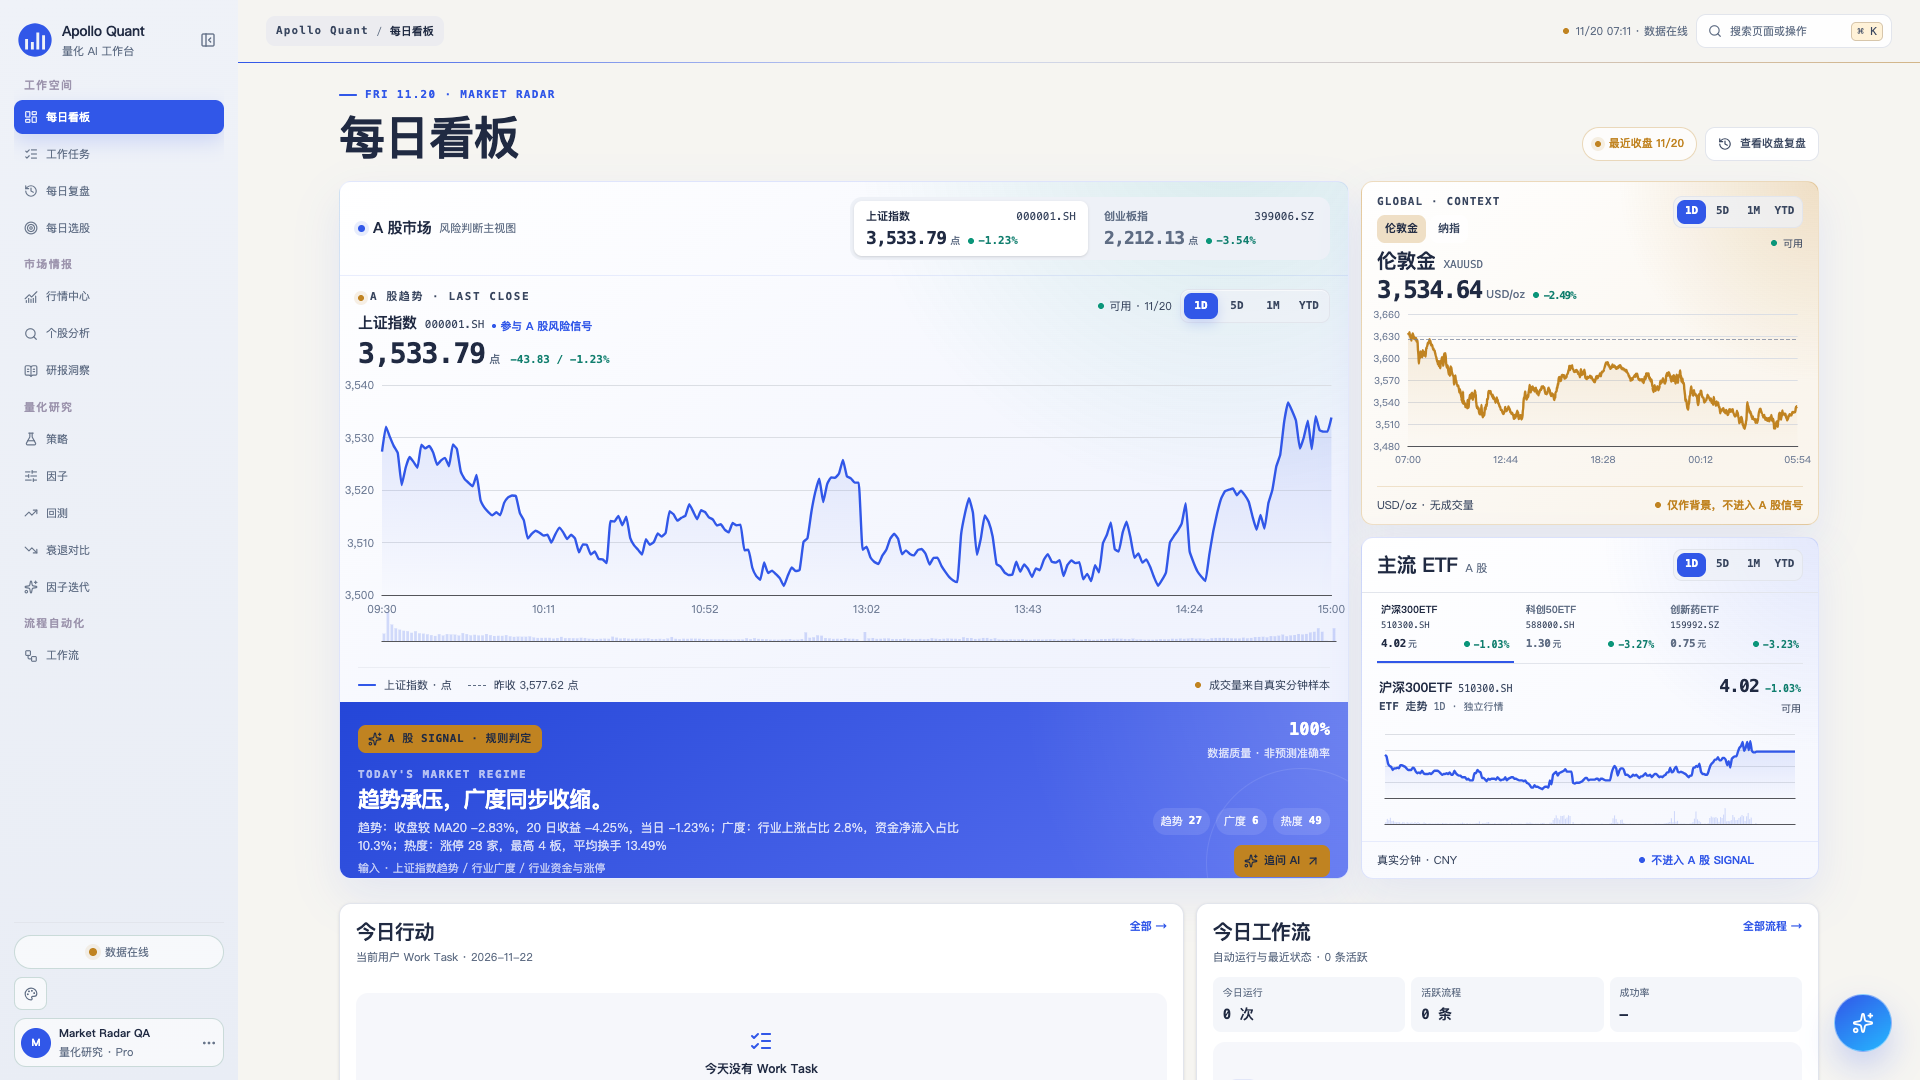
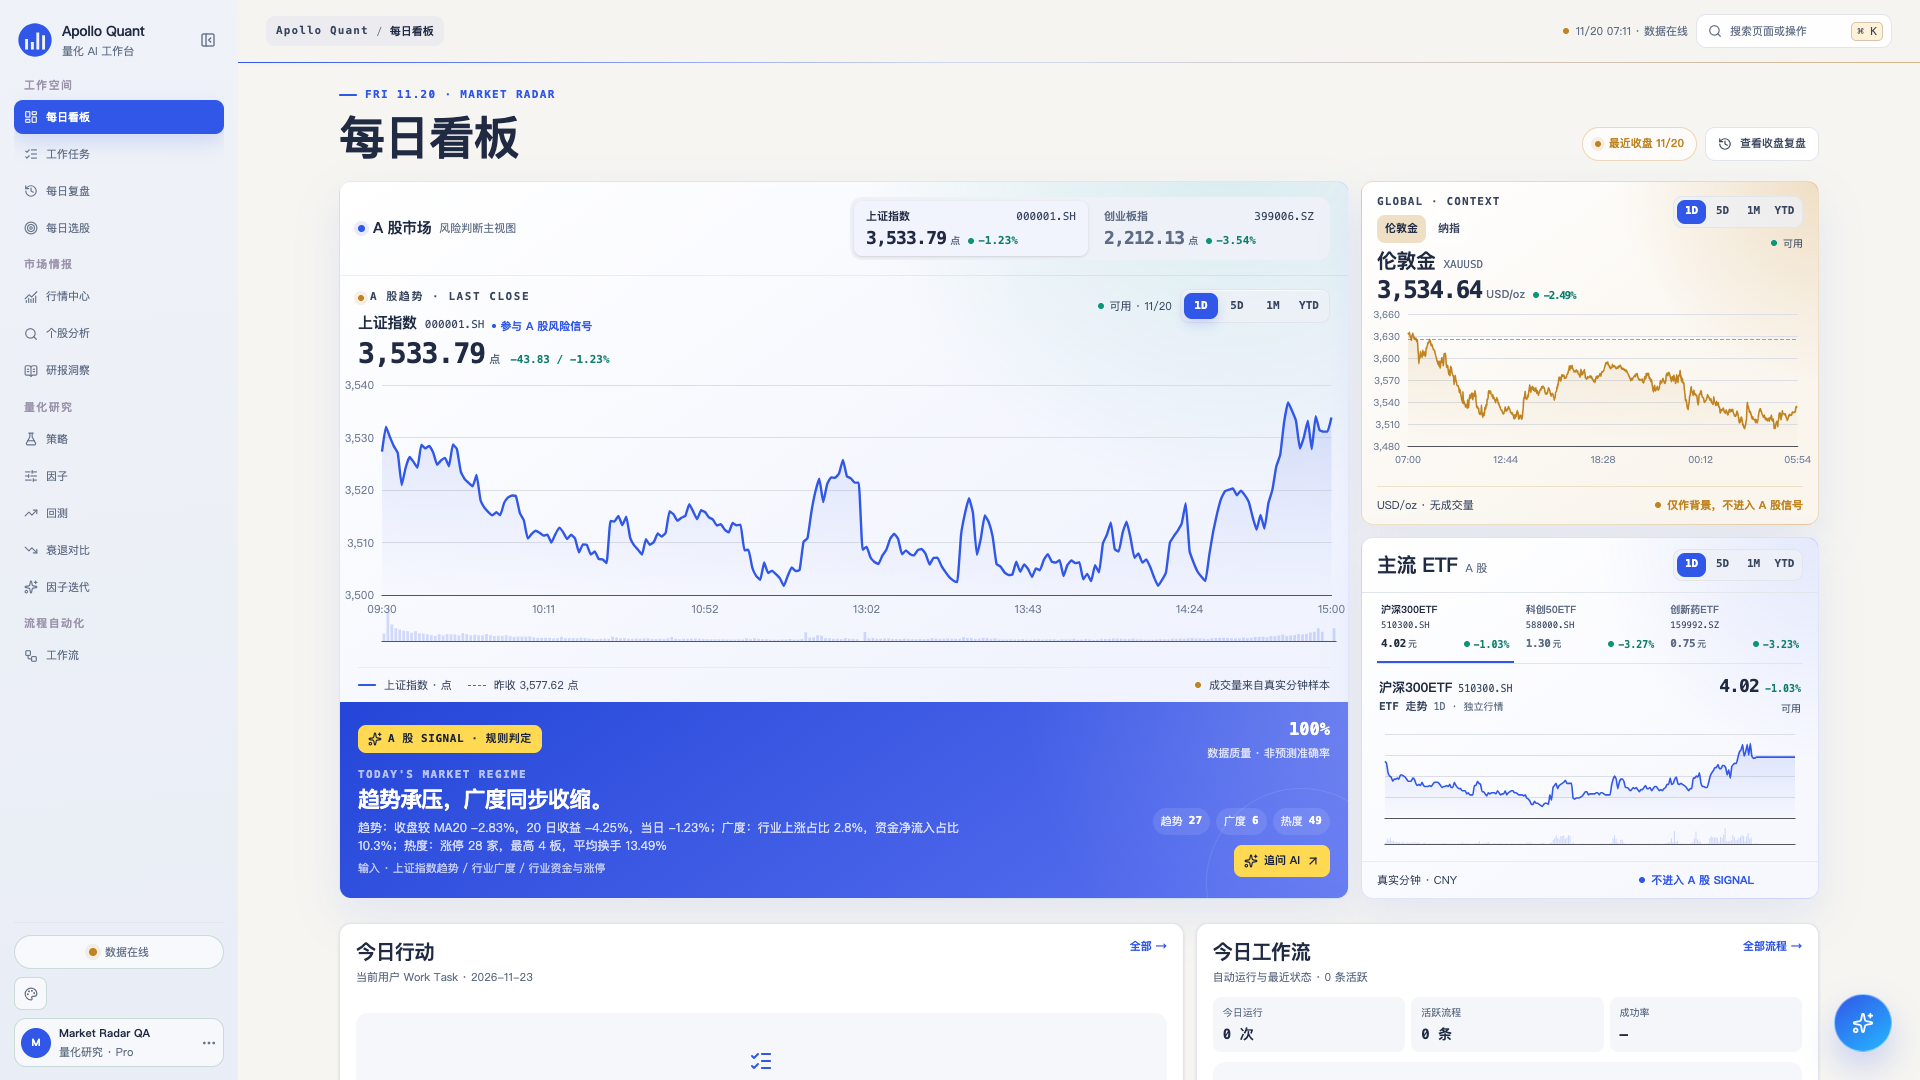
fix: give radar signal bottom breathing room

diff --git a/apps/web/src/routes/home/-private/AShareSignalPanel.tsx b/apps/web/src/routes/home/-private/AShareSignalPanel.tsx
@@ -12,7 +12,7 @@ export function AShareSignalPanel({
   const low = signal.quality !== "available";
   return (
     <section
-      className={`relative overflow-hidden px-[18px] py-4 lg:h-[176px] lg:py-[15px] ${
+      className={`relative overflow-hidden px-[18px] py-4 lg:h-[196px] lg:py-[15px] ${
         low ? "bg-app-surface text-app-ink" : "dashboard-signal-surface text-white"
       }`}
       aria-label="A 股确定性市场信号"

diff --git a/apps/web/src/routes/home/-private/MarketRadarHero.tsx b/apps/web/src/routes/home/-private/MarketRadarHero.tsx
@@ -16,7 +16,7 @@ export function MarketRadarHero({
 }) {
   return (
     <section
-      className="grid items-stretch gap-3 xl:min-h-[698px] xl:grid-cols-[minmax(0,1.72fr)_minmax(300px,.78fr)]"
+      className="grid items-stretch gap-3 xl:min-h-[718px] xl:grid-cols-[minmax(0,1.72fr)_minmax(300px,.78fr)]"
       aria-label="A 股与跨资产市场雷达"
     >
       <AShareMarketBoard

diff --git a/openspec/changes/refine-dashboard-market-radar-visual-fidelity/verification.md b/openspec/changes/refine-dashboard-market-radar-visual-fidelity/verification.md
@@ -65,13 +65,15 @@ Source comparison at `1440×900`:
 
 | Region | v6 source | Production |
 |---|---:|---:|
-| A-share board | 697.88px | 698.75px |
+| A-share board | 697.88px | 718.75px |
 | A-share chart | 298.30px | 298px |
-| SIGNAL | 176.05px | 176px |
+| SIGNAL | 176.05px | 196px |
 | Global card | 343.73px | 344px |
 | Global chart | 178px | 178px |
-| ETF card | 342.14px | 342.75px |
-| ETF chart | 99.36px | 100.25px |
+| ETF card | 342.14px | 362.75px |
+| ETF chart | 99.36px | 120.25px |
+
+The A-share/right stack is intentionally `20px` taller than the source because the production SIGNAL contains a longer real-data explanation. The extra height preserves the source chart height and adds bottom breathing room instead of clipping the evidence or action row.
 
 ## Evidence
 

diff --git a/openspec/changes/refine-dashboard-market-radar-visual-fidelity/tasks.md b/openspec/changes/refine-dashboard-market-radar-visual-fidelity/tasks.md
@@ -68,6 +68,12 @@
 - [x] 11.3 ETF 图表改为自适应填充并约 `100px`，三只 ETF 保留价格和涨跌幅，Tab 改为下划线选中态而非独立卡片。
 - [x] 11.4 A 股折线保持 v6 的 `2.4px`；右侧黄金、ETF 折线按实际显示密度收为 `1.6px`，网格与昨收线保持 `1px`。
 
+## 12. Final readability and control polish
+
+- [x] 12.1 为真实 SIGNAL 长文案额外增加约 `20px` 高度，保持图表 `298px` 不变，并为底部操作保留约 `19px` 内边距。
+- [x] 12.2 A 股指数 Tab 使用 v6 浅蓝选中表面；SIGNAL 标签和“追问 AI”统一使用 v6 `#ffd951`。
+- [x] 12.3 黄金与 ETF 折线降为 `1.6px`，A 股折线保持 `2.4px`。
+
 ## Workflow follow-up
 
 - 用户验收实现后再执行代码审查与归档确认。
